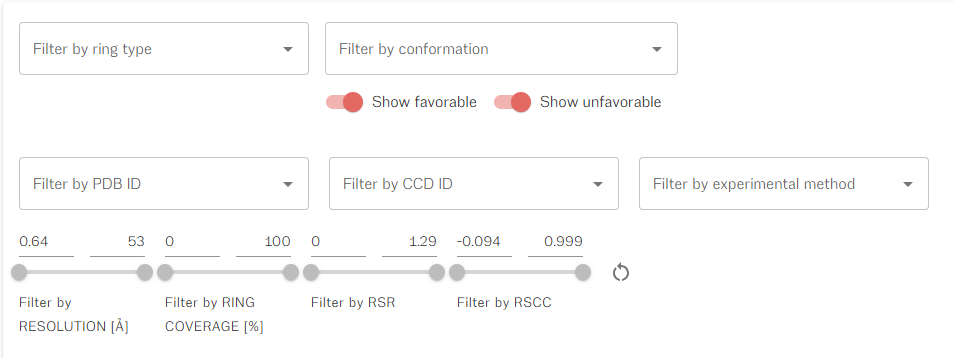
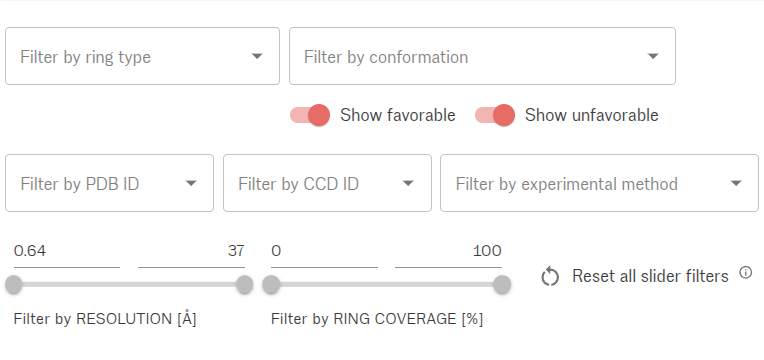
update user guide

diff --git a/frontend/src/pages/UserGuide.tsx b/frontend/src/pages/UserGuide.tsx
@@ -52,9 +52,9 @@ export const UserGuide: React.FC = () => {
                 Both lowercase and uppercase formats are accepted.
               </li>
               <li>
-                <strong>Search by Ligand ID (CCD ID)</strong>:<br />
+                <strong>Search by CCD ID</strong>:<br />
                 Enter one or more Chemical Component Dictionary (CCD) IDs to find rings in specific
-                ligands. Use the same format and separators as for PDB IDs.
+                ligands and non-standard residues. Use the same format and separators as for PDB IDs.
               </li>
               <li>
                 <strong>Browse Rings and Conformations</strong>:<br />
@@ -152,10 +152,6 @@ export const UserGuide: React.FC = () => {
                     levels.
                   </li>
                   <li>
-                    Switch to <strong>Compact View</strong> to hide columns like Experimental
-                    Method.
-                  </li>
-                  <li>
                     Download the currently selected data in <strong>CSV</strong> format.
                   </li>
                 </ul>
@@ -221,8 +217,8 @@ export const UserGuide: React.FC = () => {
         </AccordionSummary>
         <AccordionDetails>
           <Typography variant="body1" sx={{ mb: 3 }}>
-            On the left side of the page you can find even more information about the current ring,
-            including its coverage, atom names, chain ID, and residue ID.
+            On the left side of the page you can find information about the current ring,
+            including atom names.
           </Typography>
           <img
             src="assets/images/ring_details_screenshot.png"

diff --git a/frontend/src/components/MainSection.tsx b/frontend/src/components/MainSection.tsx
@@ -4,7 +4,7 @@ import Heading from './Heading.tsx';
 export const MainSection = () => {
   return (
     <>
-      <Heading text="Welcome"/>
+      <Heading text="Welcome" />
 
       <Typography
         variant="body1"
@@ -15,9 +15,9 @@ export const MainSection = () => {
           textAlign: "left",
         }}
       >
-        Discover, analyze, and explore molecular ring structures like never
+        Discover, analyse, and explore molecular ring structures like never
         before. RingPDB is a powerful web-based platform designed to help
-        researchers efficiently navigate the vast dataset of ligand rings in the{" "}
+        researchers efficiently navigate the vast dataset of rings in ligands and non-standard residues in the{" "}
         <Link
           href="https://www.ebi.ac.uk/pdbe/"
           target="_blank"
@@ -26,7 +26,7 @@ export const MainSection = () => {
         >
           Protein Data Bank (PDB)
         </Link>
-        . Start your journey today and uncover new perspectives in ligand
+        . Start your journey today and uncover new perspectives in rings conformation
         research with ease and precision!
       </Typography>
 
